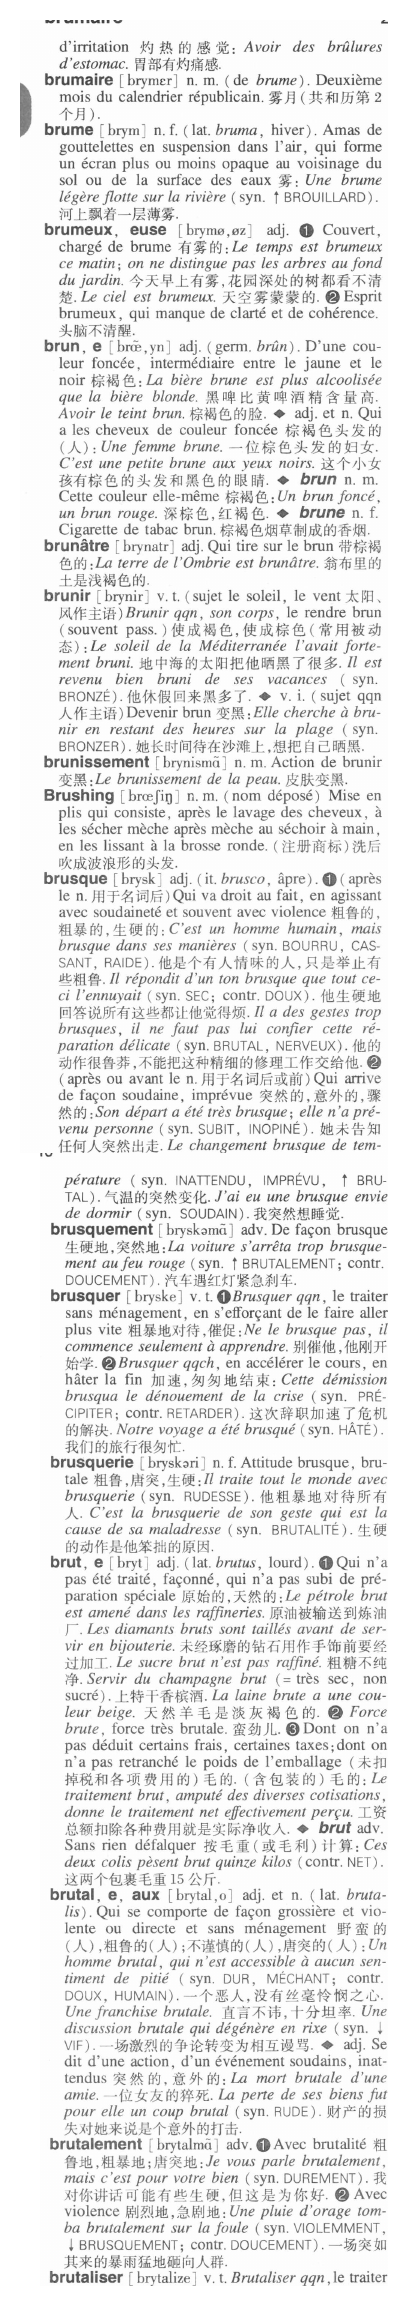
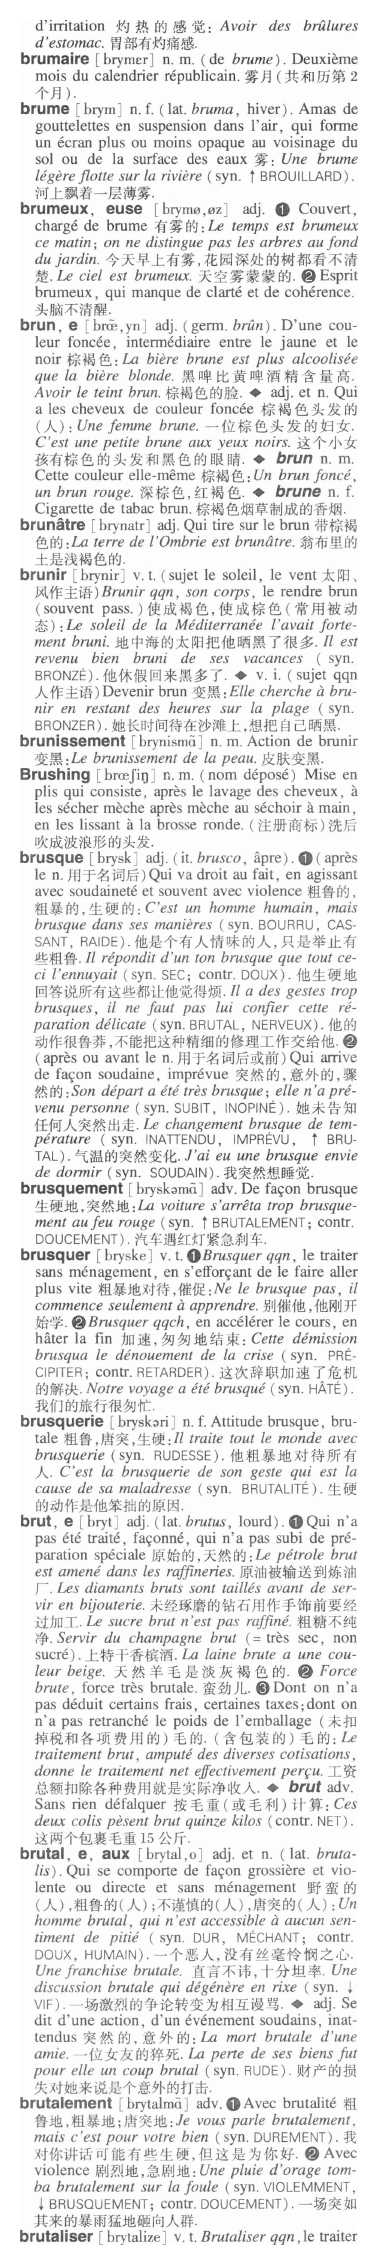
220

diff --git a/larousse/croissant.py b/larousse/croissant.py
@@ -43,10 +43,10 @@ def odd_pic(p_name):
     im = Image.open(p_name)
     w,h = im.size 
     top = 60
-    top = 66
+    top = 77
 
     right = 53
-    right = 55
+    right = 66
 
     m = (w-right)/2 + w/70 + 10
     #m = (w-right)/2 + w/70 + 14
@@ -61,10 +61,10 @@ def even_pic(p_name):
     im = Image.open(p_name)
     w,h = im.size 
     top = 60
-    #top = 66
+    #top = 68
 
     left = 55
-    left = 60
+    left = 75
     
     m = (w-left) / 2 + left - w/70
     #m = (w-left) / 2 + left - w/70 - 8
@@ -82,4 +82,4 @@ def cut(i):
     else:
         even_pic(p_name)
 
-cut(199)
+cut(220)
